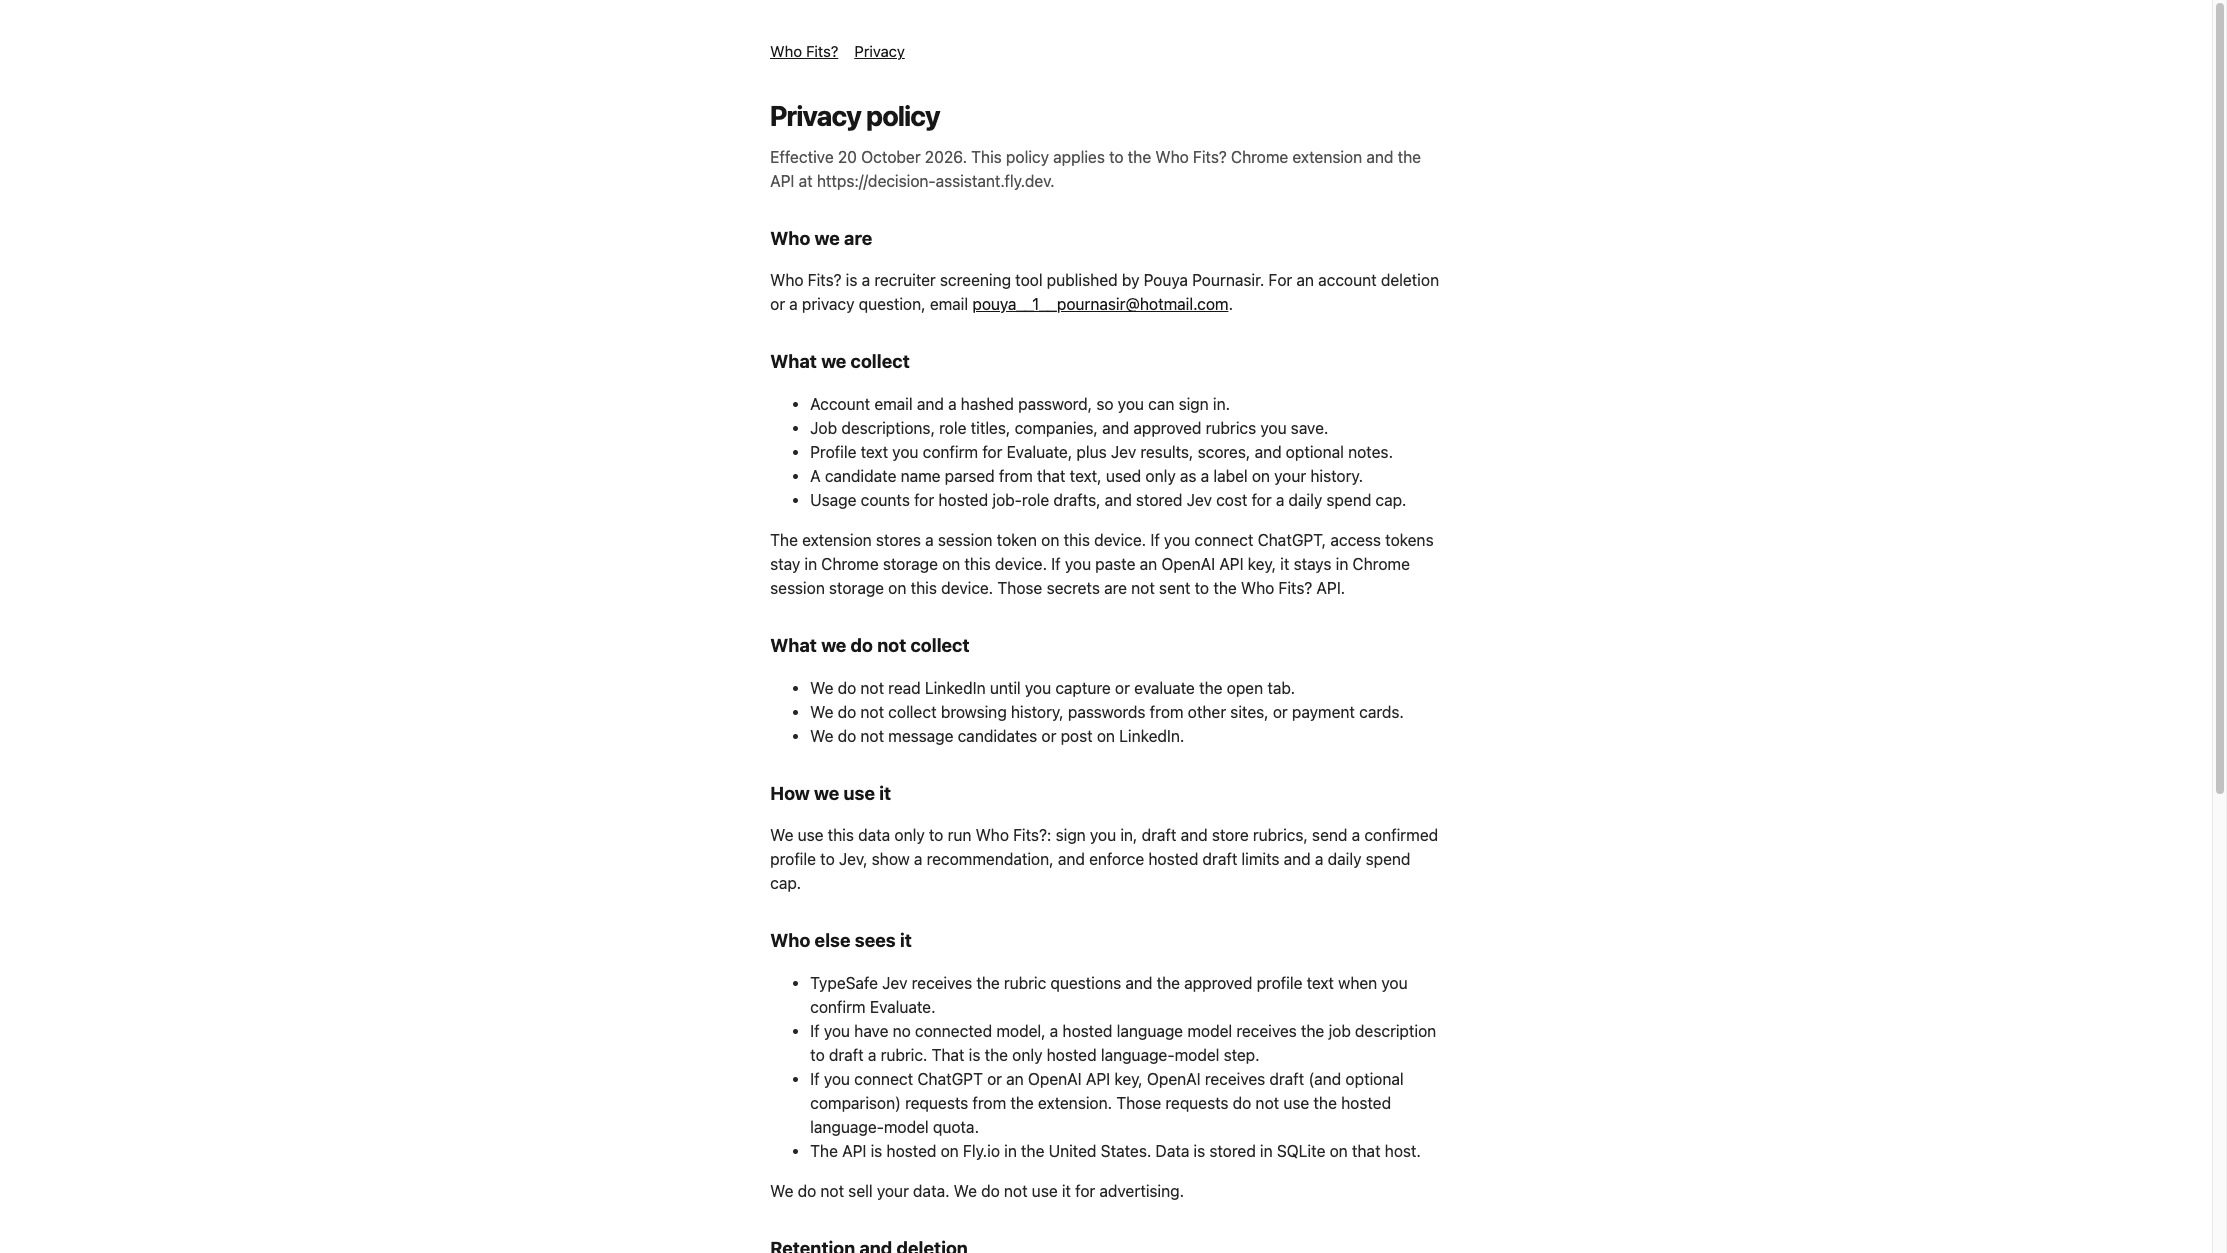
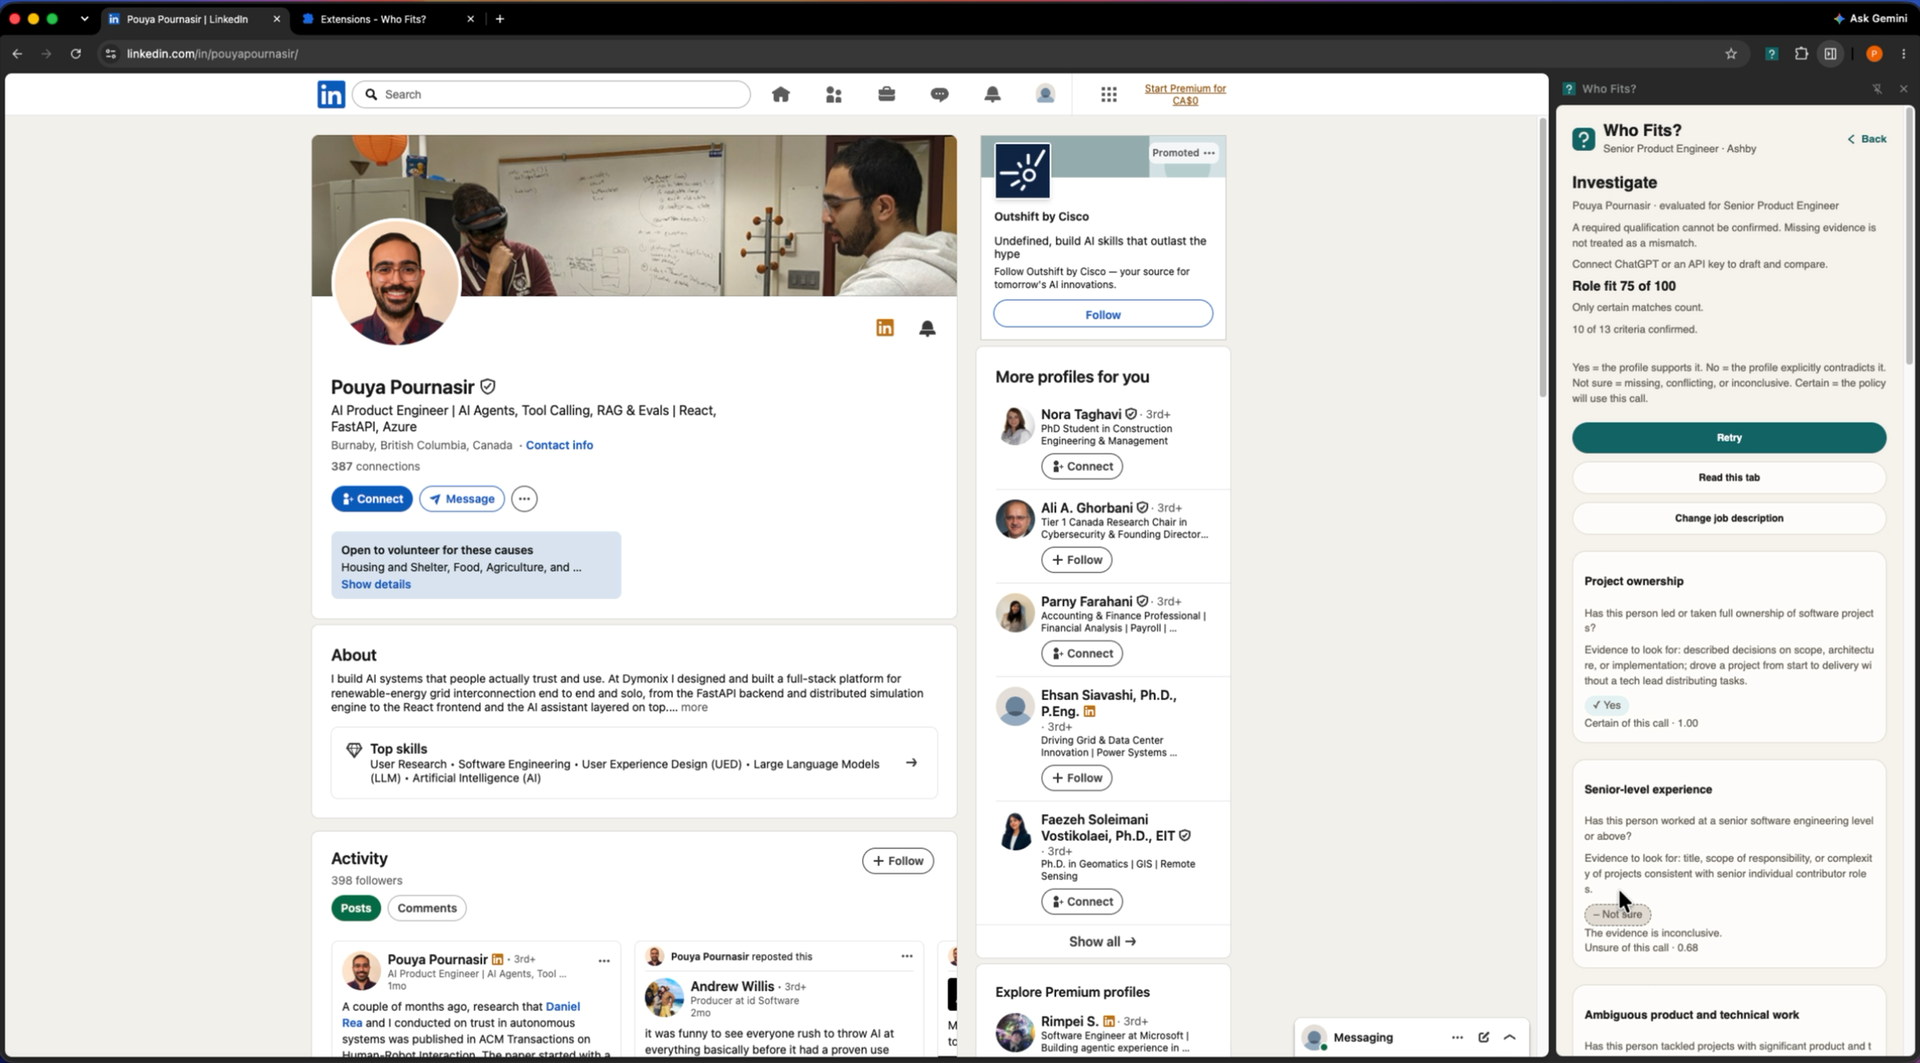
Replace README screenshots with frames from the Who Fits? demo recording.

Changed region(s): [[0.0, 0.0, 1.0, 1.0], [0.1562, 0.8071, 0.25, 0.8692]]

diff --git a/README.md b/README.md
@@ -10,9 +10,9 @@ The extension reads the open LinkedIn profile only after the recruiter chooses t
 
 Hosted API: [https://decision-assistant.fly.dev](https://decision-assistant.fly.dev) · Privacy: [https://decision-assistant.fly.dev/privacy](https://decision-assistant.fly.dev/privacy)
 
-![Who Fits? product page](docs/screenshots/product.png)
+![Who Fits? side panel next to a LinkedIn profile, with an approved rubric and Read this tab](docs/screenshots/product.png)
 
-![Who Fits? privacy policy](docs/screenshots/privacy.png)
+![Who Fits? Investigate result on a LinkedIn profile, with criterion answers and a 75 of 100 score](docs/screenshots/privacy.png)
 
 ## Architecture
 
